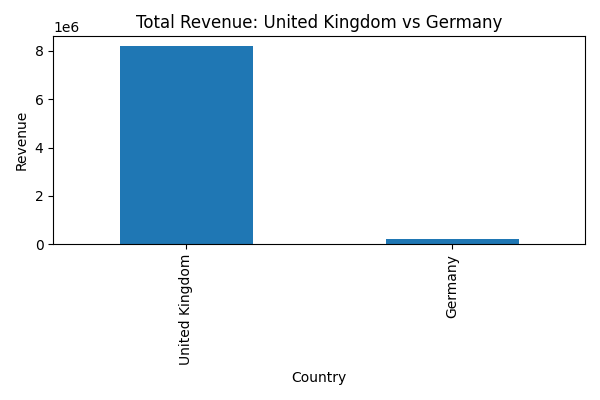
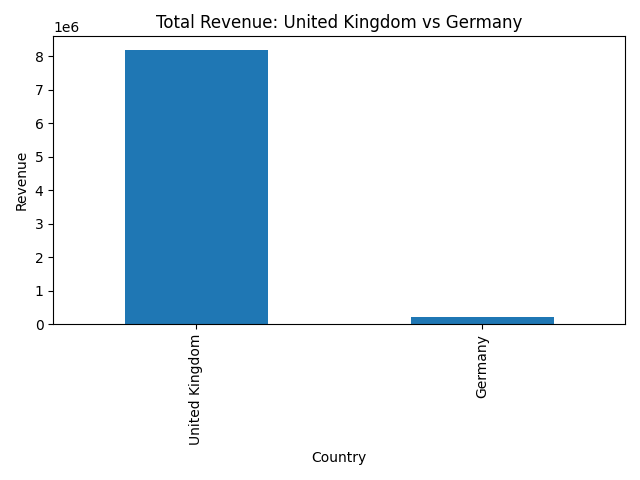
Day 22: Added monthly revenue trend handling with year-based filtering and chart support

Changed region(s): [[0.03, 0.03, 0.99, 0.93], [0.48, 0.93, 0.57, 0.96]]

diff --git a/src/qa_prototype.py b/src/qa_prototype.py
@@ -87,14 +87,19 @@ class QAPrototype:
 
         # Regex patterns (precompiled)
         self.regex_intents = {
-            "monthly_revenue": re.compile(r"\b(revenue|sales|income).*(month|monthly|trend)\b", re.IGNORECASE),
-            "countries_top": re.compile(r"\btop\s*\d*\s*(countries|regions|nations)\b", re.IGNORECASE),
-            "products_in_country": re.compile(r"\btop\s*\d*\s*(products|items|skus).*(?:in|from)\s+([\w\s\.]+)", re.IGNORECASE),
-            "transactions": re.compile(r"\btransactions?.*(?:in|from)\s+([\w\s\.]+)", re.IGNORECASE),
-            "compare_monthly": re.compile(r"compare\s+monthly\s+(?:revenue|sales|income)?\s*([\w\s\.\-]+?)\s+(?:vs|v\.?|and)\s*([\w\s\.\-]+)",re.IGNORECASE),
-            "compare_total": re.compile(r"compare(?!\s+monthly)\s+(?:total\s+)?(?:revenue|sales|income)?\s*([\w\s\.\-]+?)\s+(?:vs|v\.?|and)\s*([\w\s\.\-]+)",re.IGNORECASE),
-
-        }
+            # Comparison - total revenue
+            "compare_total": re.compile(r"\bcompare\s+(?:total\s+)?(?:revenue|sales|income)?\s*([A-Za-z\.\s]+?)\s+(?:vs|v\.?|and|with)\s+([A-Za-z\.\s]+)",re.IGNORECASE),
+            # Comparison - monthly revenue
+            "compare_monthly": re.compile(r"\bcompare\s+(?:monthly\s+)?(?:revenue|sales|income)?\s*([A-Za-z\.\s]+?)\s+(?:vs|v\.?|and|with)\s+([A-Za-z\.\s]+)",re.IGNORECASE),
+            # Monthly revenue trends
+            "monthly_revenue": re.compile(r"\b(monthly|trend|per\s+month|over\s+time)\b.*(revenue|sales|income)",re.IGNORECASE),
+            # Top countries
+            "countries_top": re.compile(r"\b(top|highest|best)\s+countries?\b.*(revenue|sales|income)?",re.IGNORECASE,),
+            # Products in country
+            "products_in_country": re.compile(r"\b(product|item)\b.*(revenue|sales|income)?",re.IGNORECASE,),
+            # Transactions
+            "transactions": re.compile(r"\btransactions?\b",re.IGNORECASE,),
+            }
 
         # map common short names/aliases -> canonical country name as in your CSV
         self.country_map = {
@@ -121,6 +126,8 @@ class QAPrototype:
             "customers": 1,
             "revenue": 0
         }
+        self.df_monthly = pd.read_csv(os.path.join(self.summary_folder, "monthly_revenue.csv"))
+
 
     def normalize_country(self, raw_country:str) -> str:
         """
@@ -141,8 +148,6 @@ class QAPrototype:
             if os.path.exists(tx_file):
                 tx = pd.read_csv(tx_file, usecols=["Country"])
                 self._csv_countries = [str(country).strip() for country in tx["Country"].dropna().unique()]
-        else:
-            pass
         
         for i in self._csv_countries:
             clean = re.sub(r"[^\w\s]", "", i).strip().lower()
@@ -251,6 +256,9 @@ class QAPrototype:
 
         if any(q.startswith(i) or i in q for i in follow_up):
             return True
+        
+        if q.startswith("compare ") or " compare " in q:
+            return False
 
         metric_words = ["revenue", "sales", "income", "customers", "trend", "product"]
         if len(q.split()) <=2 and not any(i in q for i in metric_words):
@@ -332,7 +340,6 @@ class QAPrototype:
                 return True
             
             # Strip common follow-up prefixes
-            query_lower = query.lower().strip()
             prefixes = ["and", "also", "too", "as well", "what about", "how about", "next", "then"]
             for p in prefixes:
                 if query_lower.startswith(p):
@@ -363,41 +370,8 @@ class QAPrototype:
             print("After natural follow-up:", last_query_context)
             return True
 
-        # Explicit 'compare that with ...' queries
-        if "compare" in query_lower or "that" in query_lower or "with" in query_lower:
-            if last_query_context.get("value") is None:
-                print("No previous query to compare. Please ask about a country first.")
-                return True
-            
-            print("🔁 Detected follow-up comparison")
-            #detect new country
-            new_country = re.search(r"(?:in|from|for|with)\s+([\w\s]+)", query, re.IGNORECASE)
-            if not new_country:
-                print("Please specify the country to compare with.")
-                return True
-            new_country = self.normalize_country(new_country.group(1))
-            countries_df = pd.read_csv(os.path.join(self.summary_folder, "countries_revenue.csv"))
-            new_match = countries_df[countries_df["Country"].str.lower() == new_country.lower()]
-            if new_match.empty:
-                print(f"No {last_query_context['metric']} found for country: {new_country}")
-                return True
-            
-            new_value = new_match["Revenue"].values[0]
-            old_country = last_query_context["country"]
-            old_value = last_query_context["value"]
-            diff = new_value - old_value
-            sign = "+" if diff >= 0 else "-"
-            print(f"\n📊 {metric.title()} Comparison\n-----------------------------")
-            print(f"{old_country}: {old_value:,.2f}")
-            print(f"{new_country}: {new_value:,.2f}")
-            print(f"Difference: {sign}{abs(diff):,.2f}")
-            # update conext
-            last_query_context.update({"country": new_country, "value": new_value})
-            print("✅ After call:", last_query_context)
-            return True
-        
-        # detect in normal query
-        country_match = re.search(r"(?:in|from|for)\s+([\w\s]+)", query, re.IGNORECASE)
+        # Detect in normal query
+        country_match = re.search(r"(?:in|from|for|of)\s+([\w\s]+)", query, re.IGNORECASE)
         print(country_match.group(1))
         if country_match:
             country = self.normalize_country(country_match.group(1))
@@ -420,6 +394,56 @@ class QAPrototype:
             last_query_context.update({"metric": metric, "country": None, "value": total})
             return True
         
+    def handle_monthly_revenue(self, query):
+        print(f"Monthly revenue with query: {query}")
+        q = query.lower()
+
+        df = self.df_monthly.copy()
+        df.columns = [c.strip() for c in df.columns]
+        name_col = "YearMonth"
+        value_col = "Revenue"
+        country_col = "Country" if "Country" in df.columns else None
+
+        # --- Extract Year ---
+        year_match = re.search(r"\b(20\d\d)\b", q)
+        # print(year_match.group(1))
+        year = year_match.group(1) if year_match else None
+        # print(year)
+
+        if year:
+            df = df[df[name_col].astype(str).str.startswith(str(year))]
+            print(df.head())
+        else:
+            # deafault to latest year
+            latest_year = df[name_col].astype(str).str[:4].max()
+            df = df[df[name_col].astype(str).str.startswith(latest_year)]
+            year = latest_year
+            
+        # -- Extract Country ---
+        for a, b in self.country_map.items():
+            if re.search(rf"\b{a}\b", q):
+                if country_col:
+                    df = df[df[country_col].str.lower() == b.lower()]
+                    print(f"Filtered for country: {b}")
+                else:
+                    print("No 'Country' column found, skipping country filter.")
+                    break
+            
+        if df.empty:
+            return f"No data found for {year}."
+        
+        df = df.groupby(name_col, as_index=False)[value_col].sum()
+        df = df.sort_values(by=name_col)
+        meta = {
+            "plot": True,
+            "name_col": name_col,
+            "value_col": value_col,
+            "chart_type": "line"
+        }
+
+        self.handle_trend("monthly_revenue", meta, df)
+        return f"Monthly revenue trend generated for {year}."
+
     def handle_comparison(self, query, intent_match):
         """
     intent_match is the regex match object; detect_category returned ("compare", "regex", intent_name, match)
@@ -428,21 +452,13 @@ class QAPrototype:
         intent_name = intent_match[2]
         m = intent_match[3]
 
-        metric = "revenue"
         if not m or m.lastindex < 2:
             print("⚠ Couldn't extract comparison countries properly.")
             return True
         # --- Extract country names depending on regex groups ---
-        if m.lastindex >= 2:
-            a_raw = m.group(1).strip()
-            b_raw = m.group(2).strip()
 
-        else:
-            print("⚠ Couldn't extract comparison countries properly.")
-            return True
-
-        a = self.normalize_country(a_raw)
-        b = self.normalize_country(b_raw)
+        a = self.normalize_country(m.group(1))
+        b = self.normalize_country(m.group(2))
 
 
         tx_file = os.path.join(self.summary_folder, "transactions.csv")
@@ -462,25 +478,19 @@ class QAPrototype:
         if intent_name == "compare_total":
             sum_a = tx[tx["Country_norm"] == a_norm]["Revenue"].sum()
             sum_b = tx[tx["Country_norm"] == b_norm]["Revenue"].sum()
-            df_cmp = pd.DataFrame({
-                "Country" : [a,b],
-                metric.capitalize(): [sum_a, sum_b]
-            })
-            print(f"Total {metric.title()} Comparison: {a} vs {b}")
+            print(f"Total Revenue Comparison: {a} vs {b}")
             print("-"*40)
-            print(df_cmp.to_string(index=False))
+            print(f"{a}: {sum_a}")
+            print(f"{b}: {sum_b}")
 
             # plot the bar chart
-            fig, ax = plt.subplots(figsize=(6,4))
-            df_cmp.plot(x="Country", y=metric.capitalize(), kind="bar", ax=ax, legend=False)
-            ax.set_title(f"Total {metric.title()}: {a} vs {b}")
-            ax.set_ylabel(metric.capitalize())
-            # Save the plot
-            out = f"reports/plots/compare_{a.replace(' ','_')}_vs_{b.replace(' ','_')}.png"
+            df_cmp = pd.DataFrame({"Country":[a,b],"Revenue":[sum_a,sum_b]})
+            df_cmp.plot(x="Country", y="Revenue", kind="bar", legend=False)
+            plt.title(f"Total Revenue: {a} vs {b}")
+            plt.ylabel("Revenue")
             plt.tight_layout()
-            plt.savefig(out)
+            plt.savefig(f"reports/plots/compare_{a.replace(' ','_')}_vs_{b.replace(' ','_')}.png")
             plt.show()
-            print(f"Plot save to {out}")
             return True
 
         elif intent_name == "compare_monthly":
@@ -498,13 +508,13 @@ class QAPrototype:
             # merge and prepare for plotting
             df_m = pd.merge(df_a, df_b, on=["YearMonth"], how="outer", suffixes=(f"_{a}", f"_{b}")).fillna(0)
             df_m_plot = df_m.set_index("YearMonth")
-            df_m_plot.columns = [f"{metric.title()} {a}", f"{metric.title()} {b}"]
+            df_m_plot.columns = [f"Revenue {a}", f"Revenue {b}"]
 
             #plot
             fig , ax = plt.subplots(figsize=(9,4))
             df_m_plot.plot(ax=ax, marker='o')
-            ax.set_title(f"Monthly {metric.title()} Trend: {a} vs {b}")
-            ax.set_ylabel(metric.title())
+            ax.set_title(f"Monthly Revenue Trend: {a} vs {b}")
+            ax.set_ylabel("Revenue")
             plt.xticks(rotation=45)
             plt.tight_layout()
 
@@ -633,8 +643,26 @@ class QAPrototype:
                 break
 
             start = time.time()
+            cat = None
             try:
                 print("Query:", query)
+                intent_match = self.detect_category(query)
+                cat = intent_match[0] if intent_match else None
+                print("Detected intent:", intent_match)
+                matched_by = intent_match[1]
+                print(matched_by)
+
+                if cat == "compare":
+                    self.handle_comparison(query, intent_match)
+                    self.log_query(query, cat, status="success", matched_by=matched_by, exec_time_ms = (time.time() - start) * 1000)
+                    continue
+
+                if any(i in query for i in ["monthly", "trend", "per month", "over time", "chart"]):
+                    print("Detected monthly/trend query")
+                    res = self.handle_monthly_revenue(query)
+                    print(res)
+                    self.log_query(query, category="monthly_revenue", status="success", exec_time_ms=(time.time() - start) * 1000)
+                    continue
 
                 if self.is_natural_followup(query):
                     print("Detected Follow up")
@@ -642,24 +670,12 @@ class QAPrototype:
                     self.log_query(query, category="revenue", status="success",
                                exec_time_ms=(time.time() - start) * 1000)
                     continue
-                
-                intent_match = self.detect_category(query)
-                print("Detected intent:", intent_match)
 
-                if intent_match[0] is None or intent_match is None:
+                if cat is None:
                     print("No intent detected")
                     self.handle_revenue(query)
                     self.log_query(query, category="revenue", status="success",
                                exec_time_ms=(time.time() - start) * 1000)
-                    continue
-                
-                cat, matched_by = intent_match[0], intent_match[1]
-                print(cat, matched_by)
-
-                # Handle Comparison queries first
-                if cat == "compare":
-                    self.handle_comparison(query, intent_match)
-                    self.log_query(query, cat, status="success", matched_by=matched_by, exec_time_ms = (time.time() - start) * 1000)
                     continue
 
                 # Display + count rows
